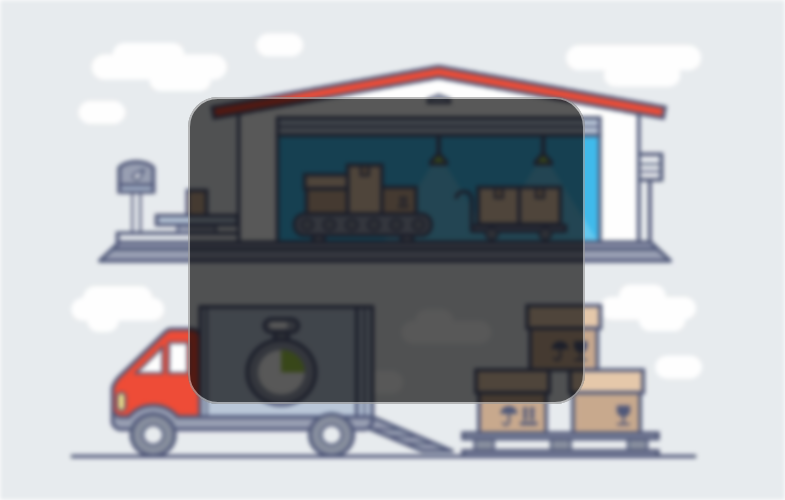
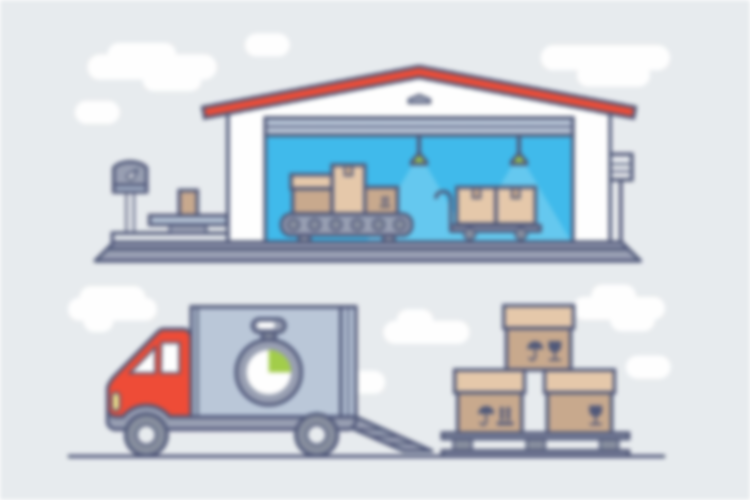
Sửa giao diện form đăng nhập

diff --git a/quan-ly-kho-hang/src/main/java/com/stoman/ui/DangNhapJDialog.java b/quan-ly-kho-hang/src/main/java/com/stoman/ui/DangNhapJDialog.java
@@ -9,6 +9,7 @@ import com.stoman.dao.NhanVienDAO;
 import com.stoman.entity.NhanVien;
 import com.stoman.utils.Auth;
 import com.stoman.utils.MsgBox;
+import java.awt.Color;
 import javax.swing.ImageIcon;
 
 /**
@@ -36,70 +37,21 @@ public class DangNhapJDialog extends javax.swing.JDialog {
     // <editor-fold defaultstate="collapsed" desc="Generated Code">//GEN-BEGIN:initComponents
     private void initComponents() {
 
-        lblTitle = new javax.swing.JLabel();
+        lblThoat = new javax.swing.JLabel();
+        lblDangNhap = new javax.swing.JLabel();
         lblTenDangNhap = new javax.swing.JLabel();
         lblMatKhau = new javax.swing.JLabel();
         txtTenNV = new javax.swing.JTextField();
         txtMatKhau = new javax.swing.JPasswordField();
         btnThoat = new javax.swing.JButton();
         btnDangNhap = new javax.swing.JButton();
-        lblThoat = new javax.swing.JLabel();
+        pnlDangNhap = new javax.swing.JPanel();
         lblBackground = new javax.swing.JLabel();
 
         setDefaultCloseOperation(javax.swing.WindowConstants.DISPOSE_ON_CLOSE);
         setTitle("StoMan - Đăng nhập");
         setResizable(false);
         getContentPane().setLayout(new org.netbeans.lib.awtextra.AbsoluteLayout());
-
-        lblTitle.setFont(new java.awt.Font("Tahoma", 1, 20)); // NOI18N
-        lblTitle.setForeground(new java.awt.Color(255, 255, 255));
-        lblTitle.setHorizontalAlignment(javax.swing.SwingConstants.LEFT);
-        lblTitle.setText("ĐĂNG NHẬP");
-        getContentPane().add(lblTitle, new org.netbeans.lib.awtextra.AbsoluteConstraints(240, 140, 130, -1));
-
-        lblTenDangNhap.setFont(new java.awt.Font("Tahoma", 1, 13)); // NOI18N
-        lblTenDangNhap.setForeground(new java.awt.Color(204, 255, 255));
-        lblTenDangNhap.setText("Tên tài khoản");
-        getContentPane().add(lblTenDangNhap, new org.netbeans.lib.awtextra.AbsoluteConstraints(240, 190, -1, -1));
-
-        lblMatKhau.setFont(new java.awt.Font("Tahoma", 1, 13)); // NOI18N
-        lblMatKhau.setForeground(new java.awt.Color(204, 255, 255));
-        lblMatKhau.setText("Mật khẩu");
-        getContentPane().add(lblMatKhau, new org.netbeans.lib.awtextra.AbsoluteConstraints(240, 260, -1, -1));
-
-        txtTenNV.setBackground(new java.awt.Color(0, 0, 0, 0));
-        txtTenNV.setFont(new java.awt.Font("Tahoma", 1, 13)); // NOI18N
-        txtTenNV.setForeground(new java.awt.Color(255, 255, 255));
-        txtTenNV.setBorder(javax.swing.BorderFactory.createMatteBorder(0, 0, 1, 0, new java.awt.Color(204, 204, 204)));
-        txtTenNV.setOpaque(false);
-        getContentPane().add(txtTenNV, new org.netbeans.lib.awtextra.AbsoluteConstraints(250, 220, 280, -1));
-
-        txtMatKhau.setBackground(new java.awt.Color(0, 0, 0, 0));
-        txtMatKhau.setFont(new java.awt.Font("Tahoma", 1, 13)); // NOI18N
-        txtMatKhau.setForeground(new java.awt.Color(255, 255, 255));
-        txtMatKhau.setBorder(javax.swing.BorderFactory.createMatteBorder(0, 0, 1, 0, new java.awt.Color(204, 204, 204)));
-        txtMatKhau.setOpaque(false);
-        getContentPane().add(txtMatKhau, new org.netbeans.lib.awtextra.AbsoluteConstraints(250, 290, 280, -1));
-
-        btnThoat.setBackground(new java.awt.Color(255, 153, 153));
-        btnThoat.setIcon(new javax.swing.ImageIcon(getClass().getResource("/com/stoman/icons/cancel.png"))); // NOI18N
-        btnThoat.setText("Thoát");
-        btnThoat.addActionListener(new java.awt.event.ActionListener() {
-            public void actionPerformed(java.awt.event.ActionEvent evt) {
-                btnThoatActionPerformed(evt);
-            }
-        });
-        getContentPane().add(btnThoat, new org.netbeans.lib.awtextra.AbsoluteConstraints(390, 340, 150, -1));
-
-        btnDangNhap.setBackground(new java.awt.Color(153, 204, 255));
-        btnDangNhap.setIcon(new javax.swing.ImageIcon(getClass().getResource("/com/stoman/icons/login-24.png"))); // NOI18N
-        btnDangNhap.setText("Đăng nhập");
-        btnDangNhap.addActionListener(new java.awt.event.ActionListener() {
-            public void actionPerformed(java.awt.event.ActionEvent evt) {
-                btnDangNhapActionPerformed(evt);
-            }
-        });
-        getContentPane().add(btnDangNhap, new org.netbeans.lib.awtextra.AbsoluteConstraints(240, 340, 150, -1));
 
         lblThoat.setIcon(new javax.swing.ImageIcon(getClass().getResource("/com/stoman/icons/cancel-32(2).png"))); // NOI18N
         lblThoat.addMouseListener(new java.awt.event.MouseAdapter() {
@@ -113,12 +65,63 @@ public class DangNhapJDialog extends javax.swing.JDialog {
                 lblThoatMouseExited(evt);
             }
         });
-        getContentPane().add(lblThoat, new org.netbeans.lib.awtextra.AbsoluteConstraints(752, 0, 30, 40));
+        getContentPane().add(lblThoat, new org.netbeans.lib.awtextra.AbsoluteConstraints(710, 10, 30, 30));
+
+        lblDangNhap.setFont(new java.awt.Font("Tahoma", 1, 20)); // NOI18N
+        lblDangNhap.setForeground(new java.awt.Color(255, 255, 255));
+        lblDangNhap.setHorizontalAlignment(javax.swing.SwingConstants.LEFT);
+        lblDangNhap.setText("ĐĂNG NHẬP");
+        getContentPane().add(lblDangNhap, new org.netbeans.lib.awtextra.AbsoluteConstraints(220, 140, 130, -1));
+
+        lblTenDangNhap.setFont(new java.awt.Font("Tahoma", 1, 13)); // NOI18N
+        lblTenDangNhap.setForeground(new java.awt.Color(204, 255, 255));
+        lblTenDangNhap.setText("Tên tài khoản");
+        getContentPane().add(lblTenDangNhap, new org.netbeans.lib.awtextra.AbsoluteConstraints(220, 190, -1, -1));
+
+        lblMatKhau.setFont(new java.awt.Font("Tahoma", 1, 13)); // NOI18N
+        lblMatKhau.setForeground(new java.awt.Color(204, 255, 255));
+        lblMatKhau.setText("Mật khẩu");
+        getContentPane().add(lblMatKhau, new org.netbeans.lib.awtextra.AbsoluteConstraints(220, 260, -1, -1));
+
+        txtTenNV.setBackground(new java.awt.Color(0, 0, 0, 0));
+        txtTenNV.setFont(new java.awt.Font("Tahoma", 1, 13)); // NOI18N
+        txtTenNV.setForeground(new java.awt.Color(255, 255, 255));
+        txtTenNV.setBorder(javax.swing.BorderFactory.createMatteBorder(0, 0, 1, 0, new java.awt.Color(204, 204, 204)));
+        txtTenNV.setOpaque(false);
+        getContentPane().add(txtTenNV, new org.netbeans.lib.awtextra.AbsoluteConstraints(230, 220, 280, -1));
+
+        txtMatKhau.setBackground(new java.awt.Color(0, 0, 0, 0));
+        txtMatKhau.setFont(new java.awt.Font("Tahoma", 1, 13)); // NOI18N
+        txtMatKhau.setForeground(new java.awt.Color(255, 255, 255));
+        txtMatKhau.setBorder(javax.swing.BorderFactory.createMatteBorder(0, 0, 1, 0, new java.awt.Color(204, 204, 204)));
+        txtMatKhau.setOpaque(false);
+        getContentPane().add(txtMatKhau, new org.netbeans.lib.awtextra.AbsoluteConstraints(230, 290, 280, -1));
+
+        btnThoat.setBackground(new java.awt.Color(255, 153, 153));
+        btnThoat.setIcon(new javax.swing.ImageIcon(getClass().getResource("/com/stoman/icons/cancel.png"))); // NOI18N
+        btnThoat.setText("Thoát");
+        btnThoat.addActionListener(new java.awt.event.ActionListener() {
+            public void actionPerformed(java.awt.event.ActionEvent evt) {
+                btnThoatActionPerformed(evt);
+            }
+        });
+        getContentPane().add(btnThoat, new org.netbeans.lib.awtextra.AbsoluteConstraints(370, 340, 150, -1));
+
+        btnDangNhap.setBackground(new java.awt.Color(153, 204, 255));
+        btnDangNhap.setIcon(new javax.swing.ImageIcon(getClass().getResource("/com/stoman/icons/login-24.png"))); // NOI18N
+        btnDangNhap.setText("Đăng nhập");
+        btnDangNhap.addActionListener(new java.awt.event.ActionListener() {
+            public void actionPerformed(java.awt.event.ActionEvent evt) {
+                btnDangNhapActionPerformed(evt);
+            }
+        });
+        getContentPane().add(btnDangNhap, new org.netbeans.lib.awtextra.AbsoluteConstraints(220, 340, 150, -1));
+        getContentPane().add(pnlDangNhap, new org.netbeans.lib.awtextra.AbsoluteConstraints(190, 110, 360, 290));
 
         lblBackground.setForeground(new java.awt.Color(255, 255, 255));
         lblBackground.setIcon(new javax.swing.ImageIcon(getClass().getResource("/com/stoman/images/background-login.png"))); // NOI18N
         lblBackground.setBorder(javax.swing.BorderFactory.createLineBorder(new java.awt.Color(153, 153, 153), 2));
-        getContentPane().add(lblBackground, new org.netbeans.lib.awtextra.AbsoluteConstraints(0, 0, -1, -1));
+        getContentPane().add(lblBackground, new org.netbeans.lib.awtextra.AbsoluteConstraints(0, 0, 750, -1));
 
         pack();
     }// </editor-fold>//GEN-END:initComponents
@@ -197,16 +200,18 @@ public class DangNhapJDialog extends javax.swing.JDialog {
     private javax.swing.JButton btnDangNhap;
     private javax.swing.JButton btnThoat;
     private javax.swing.JLabel lblBackground;
+    private javax.swing.JLabel lblDangNhap;
     private javax.swing.JLabel lblMatKhau;
     private javax.swing.JLabel lblTenDangNhap;
     private javax.swing.JLabel lblThoat;
-    private javax.swing.JLabel lblTitle;
+    private javax.swing.JPanel pnlDangNhap;
     private javax.swing.JPasswordField txtMatKhau;
     private javax.swing.JTextField txtTenNV;
     // End of variables declaration//GEN-END:variables
 
     private void init() {
         this.setLocationRelativeTo(null);
+        pnlDangNhap.setBackground(new Color(0, 0, 0, 160));
     }
 
     NhanVienDAO dao = new NhanVienDAO();

diff --git a/quan-ly-kho-hang/src/main/java/com/stoman/ui/DoiMatKhauJDialog.java b/quan-ly-kho-hang/src/main/java/com/stoman/ui/DoiMatKhauJDialog.java
@@ -65,42 +65,42 @@ public class DoiMatKhauJDialog extends javax.swing.JDialog {
                 lblThoatMouseExited(evt);
             }
         });
-        getContentPane().add(lblThoat, new org.netbeans.lib.awtextra.AbsoluteConstraints(560, 0, 40, 50));
+        getContentPane().add(lblThoat, new org.netbeans.lib.awtextra.AbsoluteConstraints(800, 10, 30, 30));
 
         lblMatKhauCu.setForeground(new java.awt.Color(255, 255, 255));
         lblMatKhauCu.setText("Mật khẩu hiện tại");
-        getContentPane().add(lblMatKhauCu, new org.netbeans.lib.awtextra.AbsoluteConstraints(160, 140, -1, -1));
+        getContentPane().add(lblMatKhauCu, new org.netbeans.lib.awtextra.AbsoluteConstraints(280, 170, -1, -1));
 
         txtMatKhauCu.setBackground(new java.awt.Color(0, 0, 0, 0));
         txtMatKhauCu.setForeground(new java.awt.Color(255, 255, 255));
         txtMatKhauCu.setBorder(javax.swing.BorderFactory.createMatteBorder(0, 0, 1, 0, new java.awt.Color(255, 255, 255)));
         txtMatKhauCu.setOpaque(false);
-        getContentPane().add(txtMatKhauCu, new org.netbeans.lib.awtextra.AbsoluteConstraints(170, 160, 260, -1));
+        getContentPane().add(txtMatKhauCu, new org.netbeans.lib.awtextra.AbsoluteConstraints(290, 190, 260, -1));
 
         lblMatKhauMoi.setForeground(new java.awt.Color(255, 255, 255));
         lblMatKhauMoi.setText("Mật khẩu mới");
-        getContentPane().add(lblMatKhauMoi, new org.netbeans.lib.awtextra.AbsoluteConstraints(160, 200, -1, -1));
+        getContentPane().add(lblMatKhauMoi, new org.netbeans.lib.awtextra.AbsoluteConstraints(280, 230, -1, -1));
 
         txtMatKhauMoi.setBackground(new java.awt.Color(0, 0, 0, 0));
         txtMatKhauMoi.setForeground(new java.awt.Color(255, 255, 255));
         txtMatKhauMoi.setBorder(javax.swing.BorderFactory.createMatteBorder(0, 0, 1, 0, new java.awt.Color(255, 255, 255)));
         txtMatKhauMoi.setOpaque(false);
-        getContentPane().add(txtMatKhauMoi, new org.netbeans.lib.awtextra.AbsoluteConstraints(170, 220, 260, -1));
+        getContentPane().add(txtMatKhauMoi, new org.netbeans.lib.awtextra.AbsoluteConstraints(290, 250, 260, -1));
 
         lblXacNhanMK.setForeground(new java.awt.Color(255, 255, 255));
         lblXacNhanMK.setText("Xác nhận mật khẩu mới");
-        getContentPane().add(lblXacNhanMK, new org.netbeans.lib.awtextra.AbsoluteConstraints(160, 260, -1, -1));
+        getContentPane().add(lblXacNhanMK, new org.netbeans.lib.awtextra.AbsoluteConstraints(280, 290, -1, -1));
 
         txtXacNhanMK.setBackground(new java.awt.Color(0, 0, 0, 0));
         txtXacNhanMK.setForeground(new java.awt.Color(255, 255, 255));
         txtXacNhanMK.setBorder(javax.swing.BorderFactory.createMatteBorder(0, 0, 1, 0, new java.awt.Color(255, 255, 255)));
         txtXacNhanMK.setOpaque(false);
-        getContentPane().add(txtXacNhanMK, new org.netbeans.lib.awtextra.AbsoluteConstraints(170, 280, 260, -1));
+        getContentPane().add(txtXacNhanMK, new org.netbeans.lib.awtextra.AbsoluteConstraints(290, 310, 260, -1));
 
         lblDoiMatKhau.setFont(new java.awt.Font("Tahoma", 1, 20)); // NOI18N
         lblDoiMatKhau.setForeground(new java.awt.Color(255, 255, 255));
         lblDoiMatKhau.setText("ĐỔI MẬT KHẨU");
-        getContentPane().add(lblDoiMatKhau, new org.netbeans.lib.awtextra.AbsoluteConstraints(160, 90, -1, -1));
+        getContentPane().add(lblDoiMatKhau, new org.netbeans.lib.awtextra.AbsoluteConstraints(280, 120, -1, -1));
 
         btnDongY.setBackground(new java.awt.Color(204, 255, 204));
         btnDongY.setIcon(new javax.swing.ImageIcon(getClass().getResource("/com/stoman/icons/checked.png"))); // NOI18N
@@ -110,7 +110,7 @@ public class DoiMatKhauJDialog extends javax.swing.JDialog {
                 btnDongYActionPerformed(evt);
             }
         });
-        getContentPane().add(btnDongY, new org.netbeans.lib.awtextra.AbsoluteConstraints(170, 330, 130, -1));
+        getContentPane().add(btnDongY, new org.netbeans.lib.awtextra.AbsoluteConstraints(290, 360, 130, -1));
 
         btnThoat.setBackground(new java.awt.Color(255, 153, 153));
         btnThoat.setIcon(new javax.swing.ImageIcon(getClass().getResource("/com/stoman/icons/cancel.png"))); // NOI18N
@@ -120,14 +120,14 @@ public class DoiMatKhauJDialog extends javax.swing.JDialog {
                 btnThoatActionPerformed(evt);
             }
         });
-        getContentPane().add(btnThoat, new org.netbeans.lib.awtextra.AbsoluteConstraints(300, 330, 130, -1));
+        getContentPane().add(btnThoat, new org.netbeans.lib.awtextra.AbsoluteConstraints(420, 360, 130, -1));
 
         pnlDoiMatKhau.setLayout(new org.netbeans.lib.awtextra.AbsoluteLayout());
-        getContentPane().add(pnlDoiMatKhau, new org.netbeans.lib.awtextra.AbsoluteConstraints(130, 70, 340, 310));
+        getContentPane().add(pnlDoiMatKhau, new org.netbeans.lib.awtextra.AbsoluteConstraints(250, 100, 340, 320));
 
         lblBackground.setIcon(new javax.swing.ImageIcon(getClass().getResource("/com/stoman/images/background_changedpass.png"))); // NOI18N
         lblBackground.setBorder(javax.swing.BorderFactory.createLineBorder(new java.awt.Color(153, 153, 153), 3));
-        getContentPane().add(lblBackground, new org.netbeans.lib.awtextra.AbsoluteConstraints(0, 0, 600, 450));
+        getContentPane().add(lblBackground, new org.netbeans.lib.awtextra.AbsoluteConstraints(0, 0, 840, 500));
 
         pack();
     }// </editor-fold>//GEN-END:initComponents
